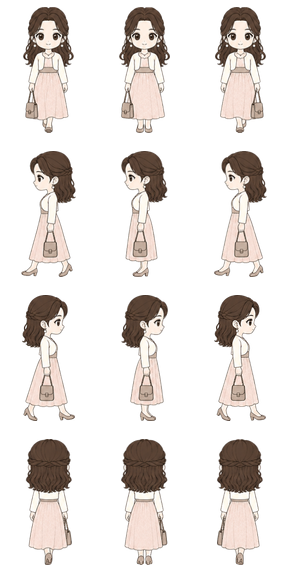
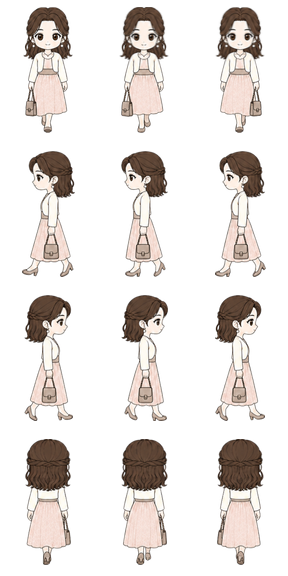
Refine guest 01 optical three-head proportions

diff --git a/client/src/character/assets.ts b/client/src/character/assets.ts
@@ -18,6 +18,7 @@ export type ResolvedCharacterLayer = {
 };
 
 const guestAssetRevisions: Partial<Record<string, string>> = {
+  "feminine-long-wave-dress": "optical-three-head-v2",
   "feminine-champagne-navy-skirt": "optical-three-head-v2",
   "feminine-lavender-jacket-dress": "optical-three-head-v2",
   "feminine-teal-modern-hanbok": "optical-three-head-v2"

diff --git a/client/src/character/worldAnchor.test.ts b/client/src/character/worldAnchor.test.ts
@@ -37,7 +37,7 @@ describe("월드 캐릭터 시각 중심", () => {
       feetY: 67
     });
     expect(worldCharacterAnchorStyle({ presetId: "missing" }, 2)).toEqual({
-      "--character-world-anchor-offset-x": "0.5px",
+      "--character-world-anchor-offset-x": "0px",
       "--character-world-anchor-y": "35px"
     });
   });

diff --git a/character-assets/reference/guest-flat-walk-sources/v2/README.md b/character-assets/reference/guest-flat-walk-sources/v2/README.md
@@ -1,11 +1,12 @@
-# Guest 06–08 optical three-head redraws
+# Guest 01 and 06–08 optical three-head redraws
 
-`guest-06`, `guest-07`, `guest-08`의 방향별 체형이 다르게 보이던 문제를 보완한 원화다.
+`guest-01`, `guest-06`, `guest-07`, `guest-08`의 방향별 체형이 다르게 보이던 문제를 보완한 원화다.
 
 - 시트는 3열 × 4행이며 행 순서는 `down`, `left`, `right`, `up`이다.
 - 각 행의 열은 앞발 전진, 중립, 반대발 전진 보행 순서다.
 - 모든 컷은 정수리–턱 1단위, 턱–발 2단위의 3등신을 기준으로 한다.
 - 정수리, 턱, 어깨, 허리, 치마 밑단, 발 기준선을 방향과 보행 컷 사이에서 고정한다.
+- 긴 머리는 어깨와 허리선을 가리지 않도록 견갑골 부근에서 정리한다.
 - 입체 렌더나 그림자를 추가하지 않고 평면 2D 게임 아트로 유지한다.
 
 빌드 스크립트는 이 폴더에 원화가 있는 하객만 v2를 우선 사용하고 나머지는 v1을 유지한다.
